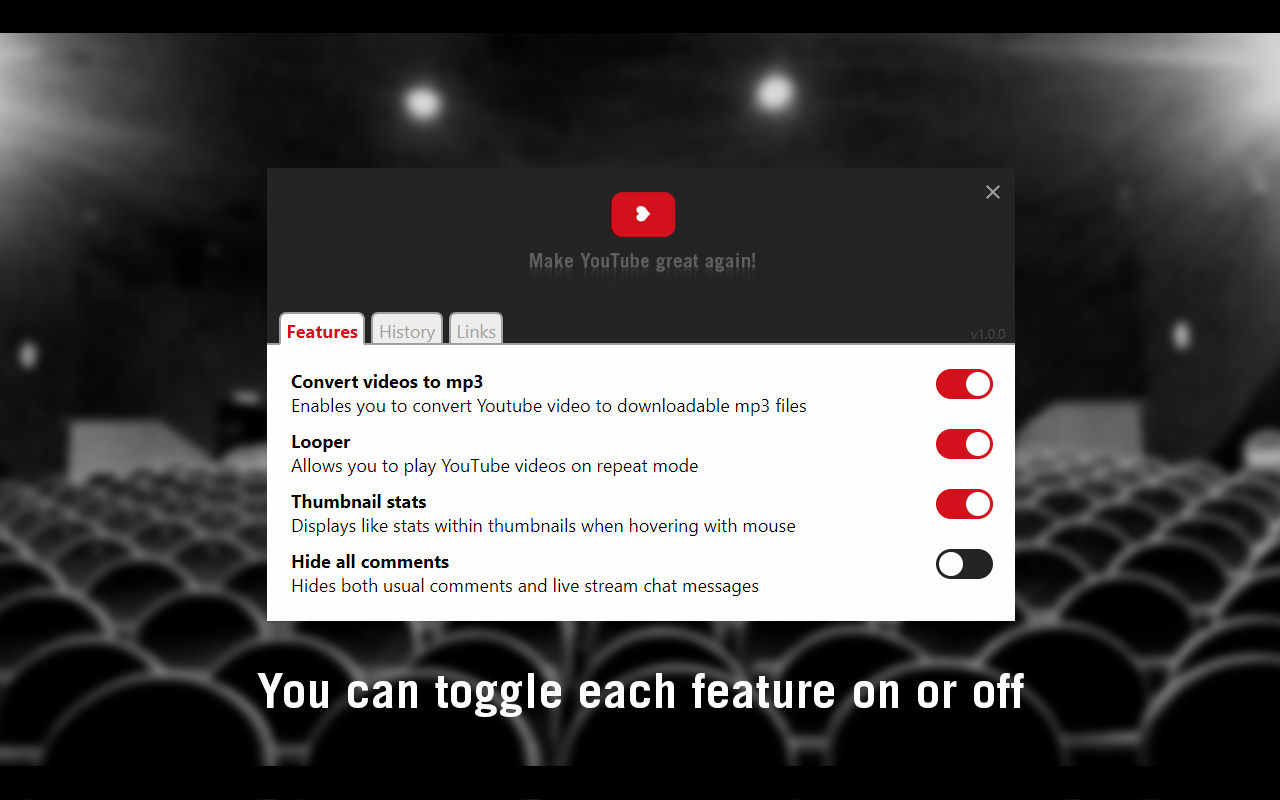
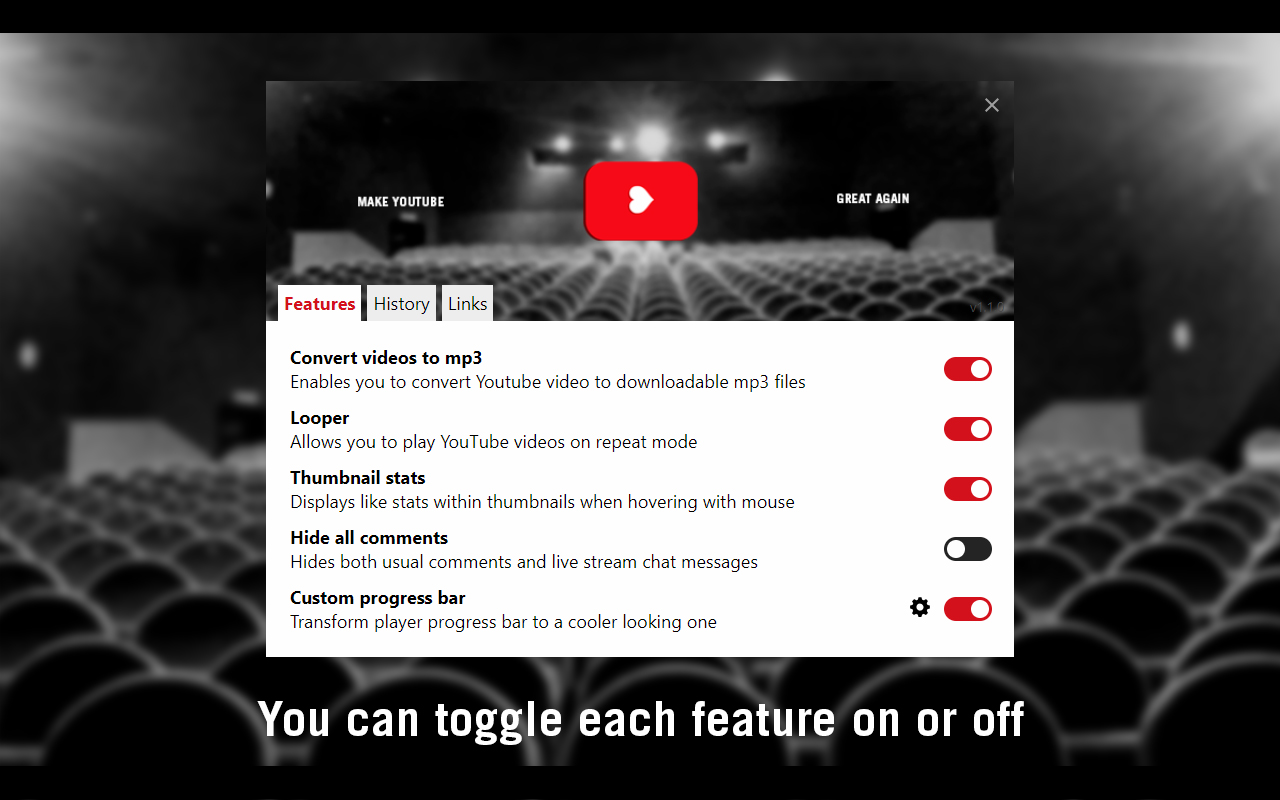
docs(release-1.1): updating docs to fit 1.1 version changes

Changed region(s): [[0.1875, 0.0938, 0.8125, 0.9375], [0.1875, 0.0938, 0.25, 0.1562]]

diff --git a/README.md b/README.md
@@ -1,5 +1,5 @@
 <p align="center">
-  <a href="https://github.com/SlimDogs/make-youtube-great-again"><img src="docs/images/popup.gif" alt="Chrome extension: Make YouTube great again!" title="Chrome extension: Make YouTube great again!" width="250px" /></a>
+  <a href="https://github.com/SlimDogs/make-youtube-great-again"><img src="docs/images/myga_promo_440x280.jpg" alt="Chrome extension: Make YouTube great again!" title="Chrome extension: Make YouTube great again!" width="250px" /></a>
 </p>
 
 <p align="center">
@@ -75,6 +75,16 @@ ____
 </p>
 Sometimes it's nice to hide the comments... This feature does exactly that.
 It hides both normal comments and live chat messages.
+
+____
+
+<p align="center">
+  <strong>Custom progress bar</strong>
+  <p align="center">
+  <img src="docs/images/feature_05.gif" width="250px" alt="Custom progress barr" />
+  </p>
+</p>
+Have a custom and nice looking playback progress bar!
 
 ## Screenshots
 <a href="docs/images/screenshot_01.jpg" target="_blank"><img width="200px" src="docs/images/screenshot_01.jpg" alt="Screenshot" title="Screenshot" /></a><a href="docs/images/screenshot_02.jpg" target="_blank"><img width="200px" src="docs/images/screenshot_02.jpg" alt="Screenshot" title="Screenshot" /></a><a href="docs/images/screenshot_03.jpg" target="_blank"><img width="200px" src="docs/images/screenshot_03.jpg" alt="Screenshot" title="Screenshot" /></a><a href="docs/images/screenshot_04.jpg" target="_blank"><img width="200px" src="docs/images/screenshot_04.jpg" alt="Screenshot" title="Screenshot" /></a><a href="docs/images/screenshot_05.jpg" target="_blank"><img width="200px" src="docs/images/screenshot_05.jpg" alt="Screenshot" title="Screenshot" /></a>

diff --git a/CHANGELOG.md b/CHANGELOG.md
@@ -1,0 +1,29 @@
+
+# Changelog
+
+----
+
+> Release 1.1 (26/01/2019)
+
+New features:
+- Custom progress bar (12 themes)
+- Features now can have settings
+
+Bug fixes
+- Thumbnail stats not being reloaded on video pages
+
+Other
+- Updated extension popup theme
+- More supported browsers
+
+
+----
+
+> Release 1.0 (23/12/2018)
+
+Features
+- Convert videos to mp3 (3 providers)
+- Looper
+- Thumbnail stats
+- Hide all comments
+- History tab
